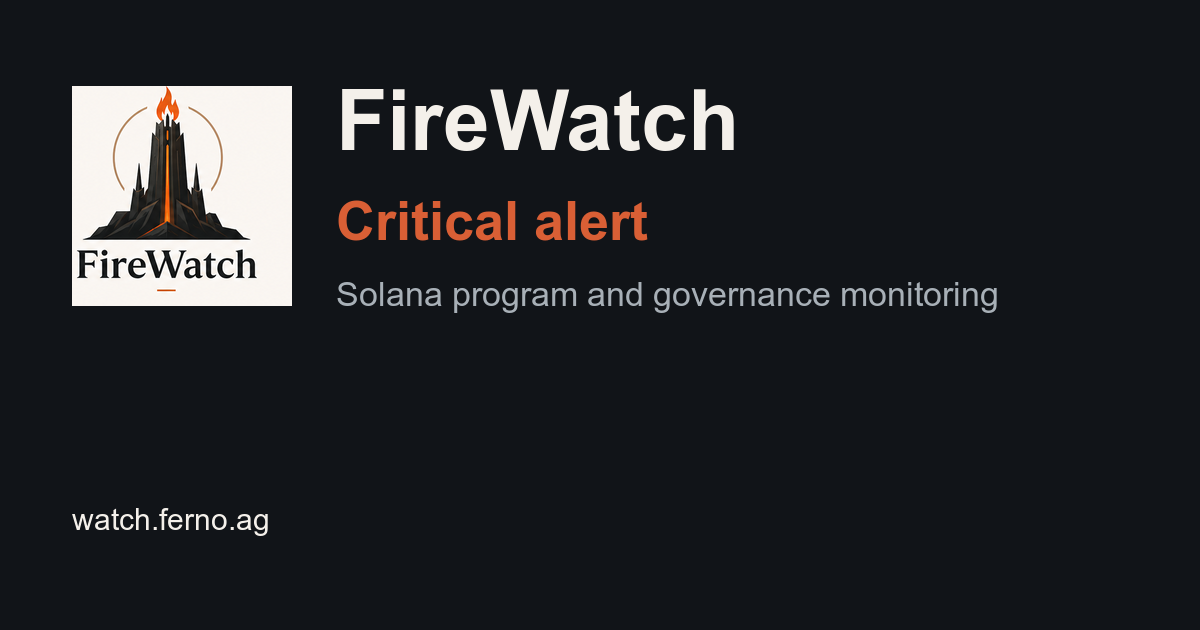
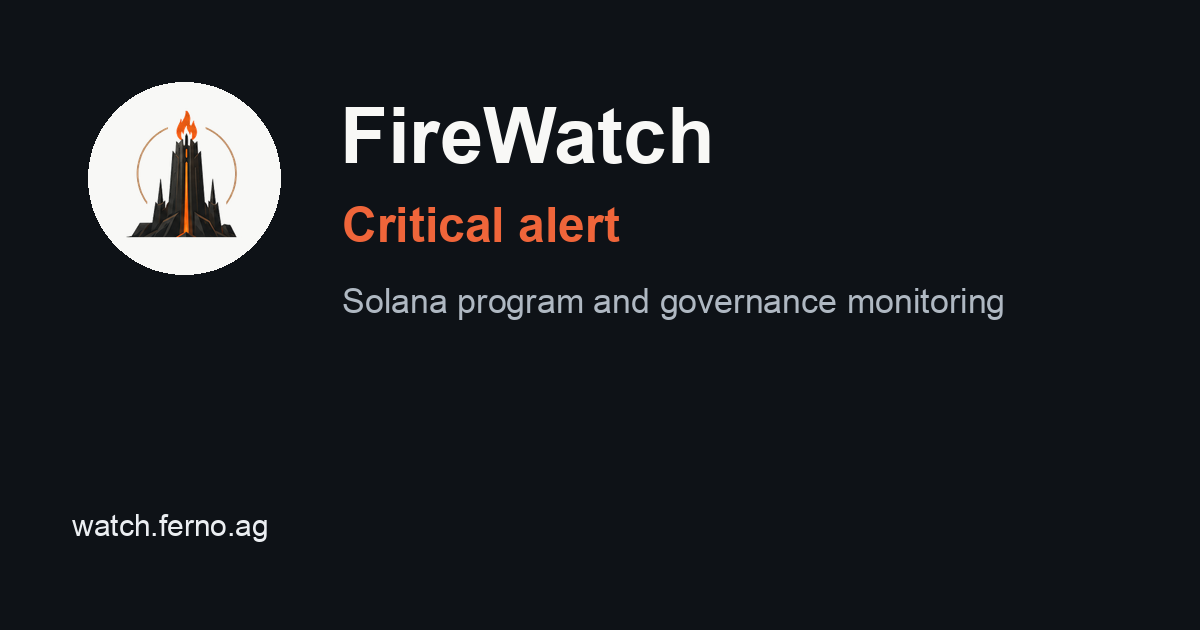
Refine FireWatch preview card design

diff --git a/frontend/src/routes/+page.svelte b/frontend/src/routes/+page.svelte
@@ -2,6 +2,7 @@
 	import { protocolPageHref } from '$lib/catalog';
 	import ProtocolIdentity from '$lib/components/ProtocolIdentity.svelte';
 	import SectionHeader from '$lib/components/SectionHeader.svelte';
+	import towerIcon from '$lib/assets/firewatch-tower-icon.png';
 	import type { DefiProtocolDescriptor } from '$lib/types';
 	import type { PageData } from './$types';
 
@@ -134,13 +135,9 @@
 	<section class="masthead-shell">
 		<article class="panel hero-panel">
 			<div class="hero-top">
-				<img
-					class="hero-logo-image"
-					src="/brand/firewatch-hero-logo-01-clean.png"
-					alt="FireWatch logo"
-					width="390"
-					height="390"
-				/>
+				<div class="hero-logo-frame" aria-hidden="true">
+					<img class="hero-logo-image" src={towerIcon} alt="" width="256" height="256" />
+				</div>
 				<div class="hero-copy">
 					<p class="hero-status">Free for FireWatch members</p>
 					<h1>Exit before protocol risk reaches your funds.</h1>
@@ -318,12 +315,20 @@
 	}
 
 	.hero-logo-image {
+		display: block;
+		width: 82%;
+		height: 82%;
+		object-fit: contain;
+		object-position: center;
+	}
+
+	.hero-logo-frame {
 		grid-column: 2;
 		grid-row: 1;
-		display: block;
-		width: 100%;
-		max-width: 10.5rem;
-		height: auto;
+		display: grid;
+		place-items: center;
+		width: min(10.5rem, 100%);
+		aspect-ratio: 1;
 		justify-self: end;
 	}
 
@@ -660,11 +665,11 @@
 		}
 
 		.hero-copy,
-		.hero-logo-image {
+		.hero-logo-frame {
 			grid-row: 1;
 		}
 
-		.hero-logo-image {
+		.hero-logo-frame {
 			grid-column: 2;
 			justify-self: end;
 			max-width: 4.6rem;

diff --git a/backend/src/link_preview.rs b/backend/src/link_preview.rs
@@ -32,6 +32,7 @@ pub async fn render_event_preview_card(state: &SharedState, event: &ChainEvent) 
     let mut canvas = data.level.decode_template()?;
     let font = preview_font()?;
 
+    draw_card_base(&mut canvas, &data, font);
     draw_event_panel(&mut canvas, &data, font);
 
     if let Some(protocol_name) = data.protocol_name.as_deref() {
@@ -171,58 +172,104 @@ async fn fetch_protocol_logo(client: &Client, slug: Option<&str>) -> Option<Rgba
 }
 
 fn draw_event_panel(canvas: &mut RgbaImage, data: &PreviewCardData, font: &FontArc) {
-    blend_rect(canvas, 318, 256, 790, 290, Rgba([13, 17, 21, 238]));
+    blend_rect(canvas, 318, 256, 790, 290, Rgba([14, 18, 23, 242]));
 
     draw_text_mut(
         canvas,
         data.level.accent(),
         336,
         276,
-        28.0,
+        24.0,
         font,
         data.level.label(),
     );
 
-    let title_lines = wrap_text(font, &data.title, 42.0, 720.0, 2);
+    let title_lines = wrap_text(font, &data.title, 38.0, 720.0, 2);
     for (index, line) in title_lines.iter().enumerate() {
         draw_text_mut(
             canvas,
             Rgba([248, 248, 246, 255]),
             336,
-            322 + (index as i32 * 48),
-            42.0,
+            319 + (index as i32 * 44),
+            38.0,
             font,
             line,
         );
     }
 
-    let summary_y = 322 + (title_lines.len() as i32 * 48) + 14;
-    let summary_lines = wrap_text(font, &data.summary, 24.0, 712.0, 2);
+    let summary_y = 319 + (title_lines.len() as i32 * 44) + 13;
+    let summary = dedup_summary(&data.title, &data.summary);
+    let summary_lines = wrap_text(font, &summary, 22.0, 712.0, 2);
     for (index, line) in summary_lines.iter().enumerate() {
         draw_text_mut(
             canvas,
             Rgba([181, 190, 201, 255]),
             336,
-            summary_y + (index as i32 * 31),
-            24.0,
+            summary_y + (index as i32 * 29),
+            22.0,
             font,
             line,
         );
     }
 
-    let protocol = data
-        .protocol_name
-        .as_deref()
-        .unwrap_or("Unlabeled protocol");
-    draw_pills(
+    draw_pills(canvas, font, &preview_pills(data));
+}
+
+fn draw_card_base(canvas: &mut RgbaImage, data: &PreviewCardData, font: &FontArc) {
+    fill_rect(
         canvas,
+        0,
+        0,
+        canvas.width(),
+        canvas.height(),
+        Rgba([14, 18, 23, 255]),
+    );
+
+    draw_brand_mark(canvas, font, data);
+    draw_text_mut(
+        canvas,
+        Rgba([248, 248, 246, 255]),
+        212,
+        94,
+        58.0,
         font,
-        &[
-            protocol.to_owned(),
-            data.event_type.clone(),
-            format!("Slot {}", data.slot),
-            data.target.clone(),
-        ],
+        "FireWatch",
+    );
+    draw_text_mut(
+        canvas,
+        Rgba([175, 184, 194, 255]),
+        214,
+        164,
+        26.0,
+        font,
+        "Protocol safety monitor",
+    );
+    draw_text_mut(
+        canvas,
+        Rgba([235, 238, 242, 255]),
+        72,
+        508,
+        27.0,
+        font,
+        "watch.ferno.ag",
+    );
+}
+
+fn draw_brand_mark(canvas: &mut RgbaImage, font: &FontArc, data: &PreviewCardData) {
+    let center = (136, 142);
+    draw_filled_circle_mut(canvas, center, 70, Rgba([248, 248, 246, 245]));
+    draw_filled_circle_mut(canvas, center, 48, Rgba([23, 29, 35, 245]));
+    let mark = "FW";
+    let scale = 32.0;
+    let width = text_width(font, scale, mark).ceil() as i32;
+    draw_text_mut(
+        canvas,
+        data.level.accent(),
+        center.0 - width / 2,
+        center.1 - 20,
+        scale,
+        font,
+        mark,
     );
 }
 
@@ -231,15 +278,15 @@ fn draw_pills(canvas: &mut RgbaImage, font: &FontArc, values: &[String]) {
     let y = 508;
 
     for value in values {
-        let label = truncate_to_width(font, value, 20.0, 206.0);
-        let width = (text_width(font, 20.0, &label).ceil() as u32 + 28).clamp(74, 238);
+        let label = truncate_to_width(font, value, 18.0, 184.0);
+        let width = (text_width(font, 18.0, &label).ceil() as u32 + 26).clamp(70, 214);
         blend_rect(canvas, x, y, width, 40, Rgba([34, 41, 49, 230]));
         draw_text_mut(
             canvas,
             Rgba([230, 235, 241, 255]),
             x + 14,
-            y + 9,
-            20.0,
+            y + 10,
+            18.0,
             font,
             &label,
         );
@@ -251,13 +298,13 @@ fn draw_pills(canvas: &mut RgbaImage, font: &FontArc, values: &[String]) {
 }
 
 fn draw_protocol_logo(canvas: &mut RgbaImage, logo: &RgbaImage) {
-    let x = 934;
-    let y = 86;
-    let size = 158;
+    let x = 966;
+    let y = 96;
+    let size = 118;
     let center = (x + size / 2, y + size / 2);
 
     draw_filled_circle_mut(canvas, center, size / 2, Rgba([248, 248, 246, 245]));
-    let fitted = resize_contain(logo, (size - 32) as u32, (size - 32) as u32);
+    let fitted = resize_contain(logo, (size - 28) as u32, (size - 28) as u32);
     let overlay_x = x + (size - fitted.width() as i32) / 2;
     let overlay_y = y + (size - fitted.height() as i32) / 2;
     imageops::overlay(canvas, &fitted, overlay_x.into(), overlay_y.into());
@@ -269,12 +316,12 @@ fn draw_protocol_monogram(
     data: &PreviewCardData,
     protocol_name: &str,
 ) {
-    let x = 934;
-    let y = 86;
-    let size = 158;
+    let x = 966;
+    let y = 96;
+    let size = 118;
     let center = (x + size / 2, y + size / 2);
     let monogram = protocol_monogram(data.protocol_slug.as_deref(), protocol_name);
-    let scale = 54.0;
+    let scale = 40.0;
     let width = text_width(font, scale, &monogram).ceil() as i32;
 
     draw_filled_circle_mut(canvas, center, size / 2, Rgba([248, 248, 246, 245]));
@@ -282,7 +329,7 @@ fn draw_protocol_monogram(
         canvas,
         data.level.accent(),
         center.0 - width / 2,
-        center.1 - 33,
+        center.1 - 25,
         scale,
         font,
         &monogram,
@@ -297,6 +344,19 @@ fn resize_contain(image: &RgbaImage, max_width: u32, max_height: u32) -> RgbaIma
     let next_height = ((height as f32 * scale).round() as u32).max(1);
 
     imageops::resize(image, next_width, next_height, FilterType::Lanczos3)
+}
+
+fn fill_rect(canvas: &mut RgbaImage, x: i32, y: i32, width: u32, height: u32, color: Rgba<u8>) {
+    let left = x.max(0) as u32;
+    let top = y.max(0) as u32;
+    let right = (x + width as i32).min(canvas.width() as i32).max(0) as u32;
+    let bottom = (y + height as i32).min(canvas.height() as i32).max(0) as u32;
+
+    for pixel_y in top..bottom {
+        for pixel_x in left..right {
+            *canvas.get_pixel_mut(pixel_x, pixel_y) = color;
+        }
+    }
 }
 
 fn blend_rect(canvas: &mut RgbaImage, x: i32, y: i32, width: u32, height: u32, color: Rgba<u8>) {
@@ -622,6 +682,44 @@ fn event_title(
     }
 }
 
+fn preview_pills(data: &PreviewCardData) -> Vec<String> {
+    let mut values = vec![data.event_type.clone(), format!("Slot {}", data.slot)];
+    if !contains_case_insensitive(&data.title, &data.target) {
+        values.insert(1, data.target.clone());
+    }
+    values
+}
+
+fn dedup_summary(title: &str, summary: &str) -> String {
+    let normalized_title = normalize_preview_text(title);
+    let normalized_summary = normalize_preview_text(summary);
+    if normalized_summary.is_empty()
+        || normalized_summary == normalized_title
+        || normalized_summary.contains(&normalized_title)
+    {
+        return String::new();
+    }
+    summary.to_owned()
+}
+
+fn contains_case_insensitive(haystack: &str, needle: &str) -> bool {
+    if needle.trim().is_empty() {
+        return false;
+    }
+    haystack
+        .to_ascii_lowercase()
+        .contains(&needle.to_ascii_lowercase())
+}
+
+fn normalize_preview_text(value: &str) -> String {
+    value
+        .split_whitespace()
+        .collect::<Vec<_>>()
+        .join(" ")
+        .trim_matches(|character: char| !character.is_ascii_alphanumeric())
+        .to_ascii_lowercase()
+}
+
 fn protocol_event_title(protocol_name: Option<&str>, label: &str) -> String {
     match protocol_name {
         Some(protocol) => format!("{protocol} {label}"),
@@ -822,6 +920,7 @@ mod tests {
         };
         let mut canvas = data.level.decode_template().expect("template decodes");
 
+        draw_card_base(&mut canvas, &data, font);
         draw_event_panel(&mut canvas, &data, font);
         draw_protocol_monogram(&mut canvas, font, &data, "Meteora DLMM");
 
